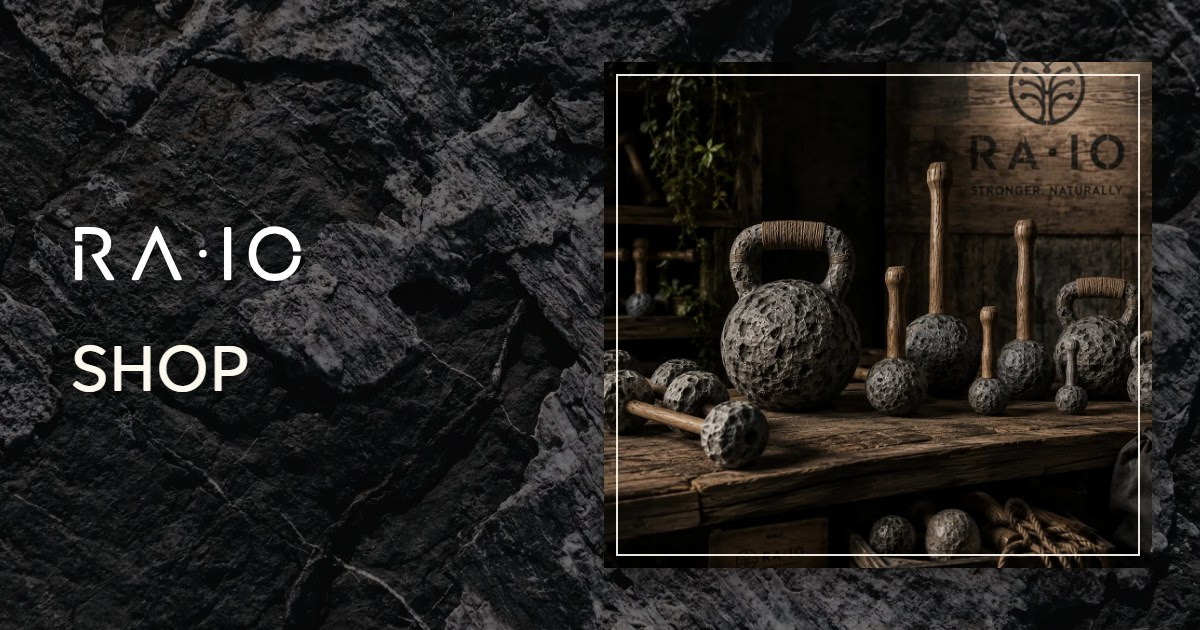
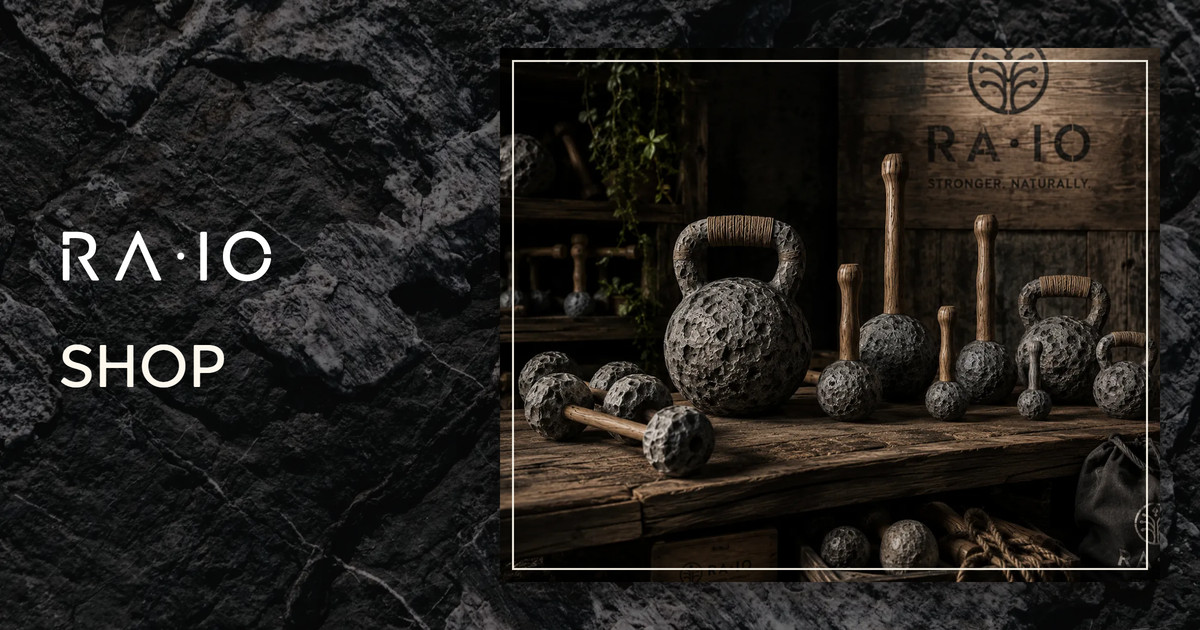
Jagamiskaardid admini SEO-valjadele; laiem foto, neutraalne raam
Kaks parandust kaardile ja uks skript, mis loppetab too ara.

RAAM OLI VALE VARVI. Moodetud piksel rgb(253,215,192) - roosakas-kuldne,
kuigi siht on rgba(253,248,238,.92) nagu card-chrome.css-is. Suudi oli
JPEG-i 4:2:0 varvusalamdiskreetimine: 2px joon soojade pikslite vahel
kaotab oma varvuse ja votab naabrite oma, heledus jaab alles. JPEG-i
kirjutab nuud sharp 4:4:4-ga, mitte Playwright. Renderdus kaib ka
kahekordses moodus ja vahendatakse - peenike joon ja Posterama jaavad
puhtad. Tulemus rgb(241,233,220), neutraalne.

FOTO ON LAIEM: 548x506 -> 660x534. Suhe 1,24 on endiselt alla lahtefotode
1,33 ja 1,50, seega cover loikab ikka ainult kulgedelt.

scripts/seed-og-cards.ts laeb kaardid Payloadi ja seob SEO-globaali
lehepohiste Jagamispilt valjadega - sama tulemus mis seitse kasitsi
uleslaadimist admini vormil. Idempotentne kahel tasandil: media-doc
leitakse failinime jargi ules ja juba seatud shareImage jaetakse rahule.
Kaib jooksutada ka serveris, sest public/media on gitignore'is ja prod-i
DB on lokaalsest eraldi.

Ilma selleta naitasid KOIK lehed sama og-default.jpg-d (omanik 2026-07-27:
"koik annavad sama?") - kaardid olid olemas, aga miski ei sidunud neid
lehtedega.

Changed region(s): [[0.4008, 0.0603, 0.9867, 0.9349], [0.0308, 0.3619, 0.2775, 0.4524], [0.0308, 0.5429, 0.2158, 0.6333]]

diff --git a/scripts/seed-og-cards.ts b/scripts/seed-og-cards.ts
@@ -1,0 +1,123 @@
+// @ts-nocheck -- one-off data bridge: public/og/*.jpg -> Payload "media" + "seo" global
+/*
+ * Laeb scripts/generate-og-cards.mjs tehtud jagamiskaardid Payloadi ja seob
+ * need SEO-globaali lehepõhiste „Jagamispilt” väljadega — täpselt sama tulemus,
+ * mille annaks seitse käsitsi üleslaadimist admini vormil.
+ *
+ *   npm run seed:og            # täidab ainult tühjad väljad
+ *   npm run seed:og -- --force # kirjutab ka juba seatud pildi üle
+ *
+ * Idempotentne kahel tasandil: media-doc leitakse failinime järgi üles (uut ei
+ * tehta) ja juba seatud shareImage jäetakse rahule.
+ *
+ * Käivita ka SERVERIS — public/media on gitignore'is, seega prod-i andmebaas ja
+ * failid on lokaalsetest eraldi (vt memory deploy-to-server). Kaardifailid ise
+ * on gitis, seega `git pull` toob nad serverisse kaasa.
+ *
+ * NB! Ainult eestikeelsed kaardid. Seo.ts shareImage ei ole `localized: true`,
+ * seega üks pilt kehtib mõlemas keeles; public/og/en/ kaardid ootavad välja
+ * lokaliseerimist (vt generate-og-cards.mjs päis).
+ */
+import fs from "node:fs";
+import path from "node:path";
+import nextEnv from "@next/env";
+import { getPayload } from "payload";
+
+const root = process.cwd();
+const { loadEnvConfig } = nextEnv;
+loadEnvConfig(root);
+
+const { default: config } = await import("../payload.config");
+const payload = await getPayload({ config });
+
+const force = process.argv.includes("--force");
+
+/* SEO-globaali lehevõti -> kaardifail + alt-tekstid. Võtmed on samad mis
+   payload/globals/Seo.ts seoPages ja lib/seo.js PAGE_PATHS. */
+const CARDS = [
+  { key: "home", file: "og-avaleht.jpg", et: "RA•IO jagamispilt: avaleht", en: "RA•IO share image: home" },
+  { key: "training", file: "og-treeningud.jpg", et: "RA•IO jagamispilt: treeningud", en: "RA•IO share image: training" },
+  { key: "tools", file: "og-vahendid.jpg", et: "RA•IO jagamispilt: vahendid", en: "RA•IO share image: tools" },
+  { key: "events", file: "og-sundmused.jpg", et: "RA•IO jagamispilt: sündmused", en: "RA•IO share image: events" },
+  { key: "journal", file: "og-journal.jpg", et: "RA•IO jagamispilt: RA•IO+", en: "RA•IO share image: RA•IO+" },
+  { key: "shop", file: "og-pood.jpg", et: "RA•IO jagamispilt: pood", en: "RA•IO share image: shop" },
+  { key: "about", file: "og-meist.jpg", et: "RA•IO jagamispilt: meist", en: "RA•IO share image: about" }
+];
+
+/* Payload annab uploadile unikaalse nime alles siis, kui sama nimi on hõivatud
+   (og-pood-1.jpg). Otsime seepärast TÄPSE nime järgi: kui doc on olemas, on ta
+   meie oma ja teist ei tehta. */
+async function ensureMedia({ file, et, en }) {
+  const existing = await payload.find({
+    collection: "media",
+    limit: 1,
+    overrideAccess: true,
+    where: { filename: { equals: file } }
+  });
+
+  if (existing.docs[0]) return { id: existing.docs[0].id, created: false };
+
+  const filePath = path.join(root, "public", "og", file);
+  if (!fs.existsSync(filePath)) {
+    console.warn(`  puudub, jätan vahele: public/og/${file} (jooksuta enne npm run og:cards)`);
+    return null;
+  }
+
+  const created = await payload.create({
+    collection: "media",
+    overrideAccess: true,
+    locale: "et",
+    data: { alt: et },
+    filePath
+  });
+
+  /* Alt on localized ja required: ilma teise keeleta jääks inglise admin tühja
+     kohustusliku välja peale seisma. */
+  await payload.update({
+    collection: "media",
+    id: created.id,
+    overrideAccess: true,
+    locale: "en",
+    data: { alt: en }
+  });
+
+  return { id: created.id, created: true };
+}
+
+/* fallbackLocale: false — vaikimisi tagastaks päring eesti väärtused ka siis,
+   kui inglise väli on tühi, ja spread kirjutaks need inglise poolele sisse. */
+const current = await payload.findGlobal({
+  slug: "seo",
+  locale: "et",
+  depth: 0,
+  fallbackLocale: false
+});
+
+const data: Record<string, unknown> = {};
+let uploaded = 0;
+
+for (const card of CARDS) {
+  const existing = current?.[card.key] || {};
+
+  if (existing.shareImage && !force) {
+    console.log(`${card.key}: jagamispilt juba seatud, jätan vahele`);
+    continue;
+  }
+
+  const media = await ensureMedia(card);
+  if (!media) continue;
+  if (media.created) uploaded += 1;
+
+  data[card.key] = { ...existing, shareImage: media.id };
+  console.log(`${card.key}: ${card.file}${media.created ? " (üles laaditud)" : " (juba olemas)"}`);
+}
+
+if (!Object.keys(data).length) {
+  console.log("Midagi muuta ei olnud.");
+  process.exit(0);
+}
+
+await payload.updateGlobal({ slug: "seo", locale: "et", overrideAccess: true, data });
+
+console.log(`Valmis: ${Object.keys(data).length} lehte seotud, ${uploaded} uut faili.`);
+process.exit(0);
